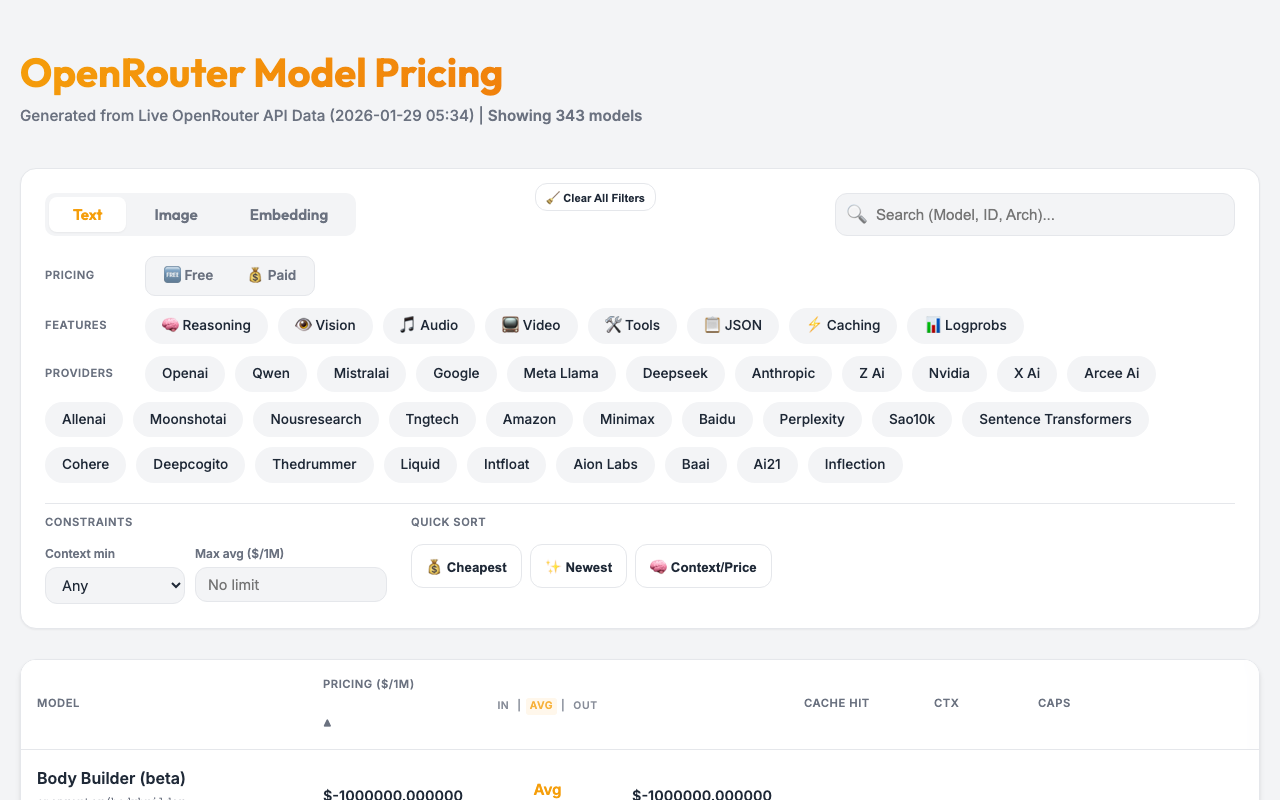
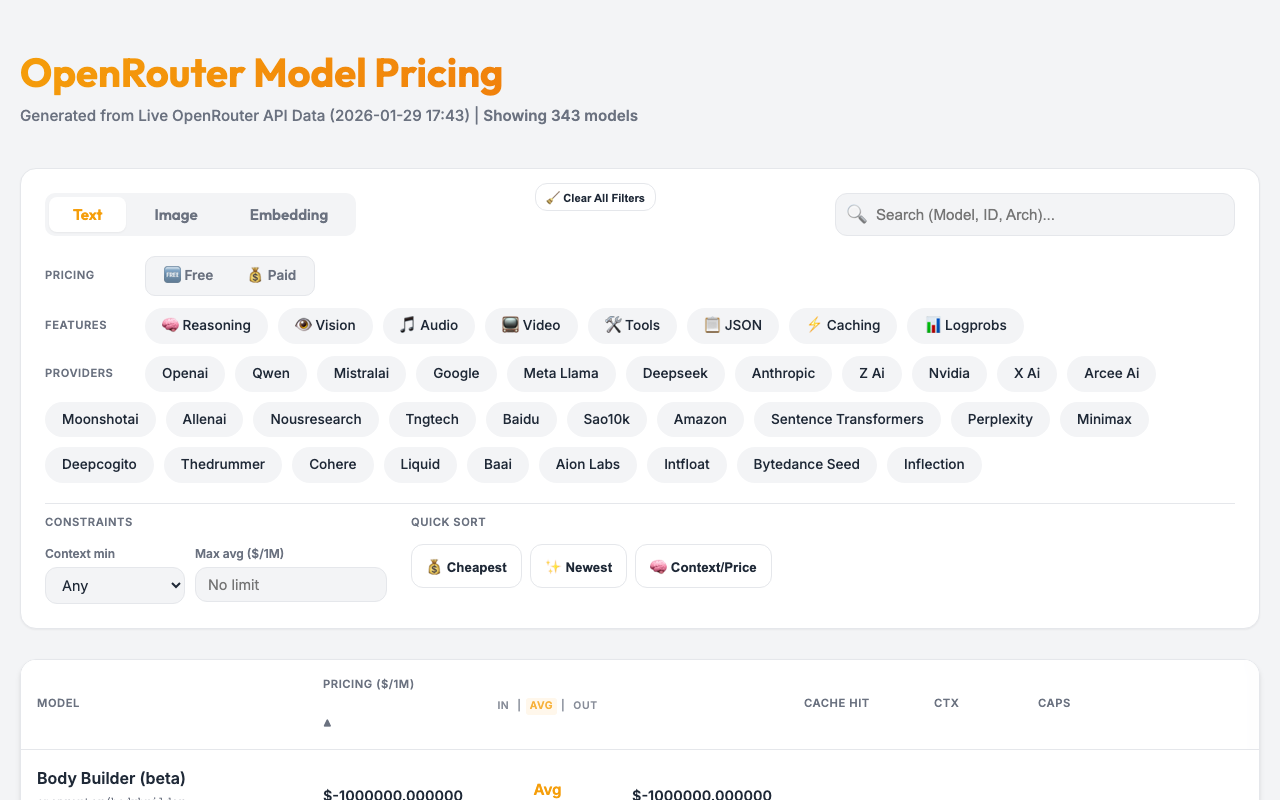
chore: automated pricing update (2026-01-29 17:43:44)
🔄 Changed Models (1): moonshotai/kimi-k2.5

diff --git a/docs/index.html b/docs/index.html
@@ -634,7 +634,7 @@
     <div class="container">
         <header>
             <h1>OpenRouter Model Pricing</h1>
-            <div class="meta">Generated from Live OpenRouter API Data (2026-01-29 05:34)</div>
+            <div class="meta">Generated from Live OpenRouter API Data (2026-01-29 17:43)</div>
         </header>
 
         <div class="controls">
@@ -766,8 +766,8 @@
         "instruct_type": null
       },
       "pricing": {
-        "prompt": "0.00000057",
-        "completion": "0.00000285"
+        "prompt": "0.0000005",
+        "completion": "0.0000025"
       },
       "top_provider": {
         "context_length": 262144,
@@ -18553,7 +18553,7 @@
   ],
   "other": []
 };
-        window.providerOptions = ['openai', 'qwen', 'mistralai', 'google', 'meta-llama', 'deepseek', 'anthropic', 'z-ai', 'nvidia', 'x-ai', 'arcee-ai', 'allenai', 'moonshotai', 'nousresearch', 'tngtech', 'amazon', 'minimax', 'baidu', 'perplexity', 'sao10k', 'sentence-transformers', 'cohere', 'deepcogito', 'thedrummer', 'liquid', 'intfloat', 'aion-labs', 'baai', 'ai21', 'inflection', 'thenlper', 'microsoft', 'neversleep', 'inception', 'bytedance-seed', 'morph', 'relace', 'openrouter', 'raifle', 'bytedance', 'upstage', 'cognitivecomputations', 'nex-agi', 'mancer', 'switchpoint', 'opengvlab', 'ibm-granite', 'alfredpros', 'kwaipilot', 'stepfun-ai', 'anthracite-org', 'eleutherai', 'alibaba', 'writer', 'alpindale', 'meituan', 'tencent', 'xiaomi', 'undi95', 'prime-intellect', 'gryphe', 'essentialai'];
+        window.providerOptions = ['openai', 'qwen', 'mistralai', 'google', 'meta-llama', 'deepseek', 'anthropic', 'z-ai', 'nvidia', 'x-ai', 'arcee-ai', 'moonshotai', 'allenai', 'nousresearch', 'tngtech', 'baidu', 'sao10k', 'amazon', 'sentence-transformers', 'perplexity', 'minimax', 'deepcogito', 'thedrummer', 'cohere', 'liquid', 'baai', 'aion-labs', 'intfloat', 'bytedance-seed', 'inflection', 'relace', 'inception', 'morph', 'neversleep', 'thenlper', 'openrouter', 'microsoft', 'ai21', 'ibm-granite', 'cognitivecomputations', 'mancer', 'essentialai', 'eleutherai', 'prime-intellect', 'alfredpros', 'stepfun-ai', 'undi95', 'kwaipilot', 'alibaba', 'xiaomi', 'upstage', 'meituan', 'bytedance', 'nex-agi', 'raifle', 'writer', 'anthracite-org', 'switchpoint', 'tencent', 'gryphe', 'alpindale', 'opengvlab'];
         let currentTab = 'text';
         let sortKey = 'price_avg';
         let sortAsc = true;
